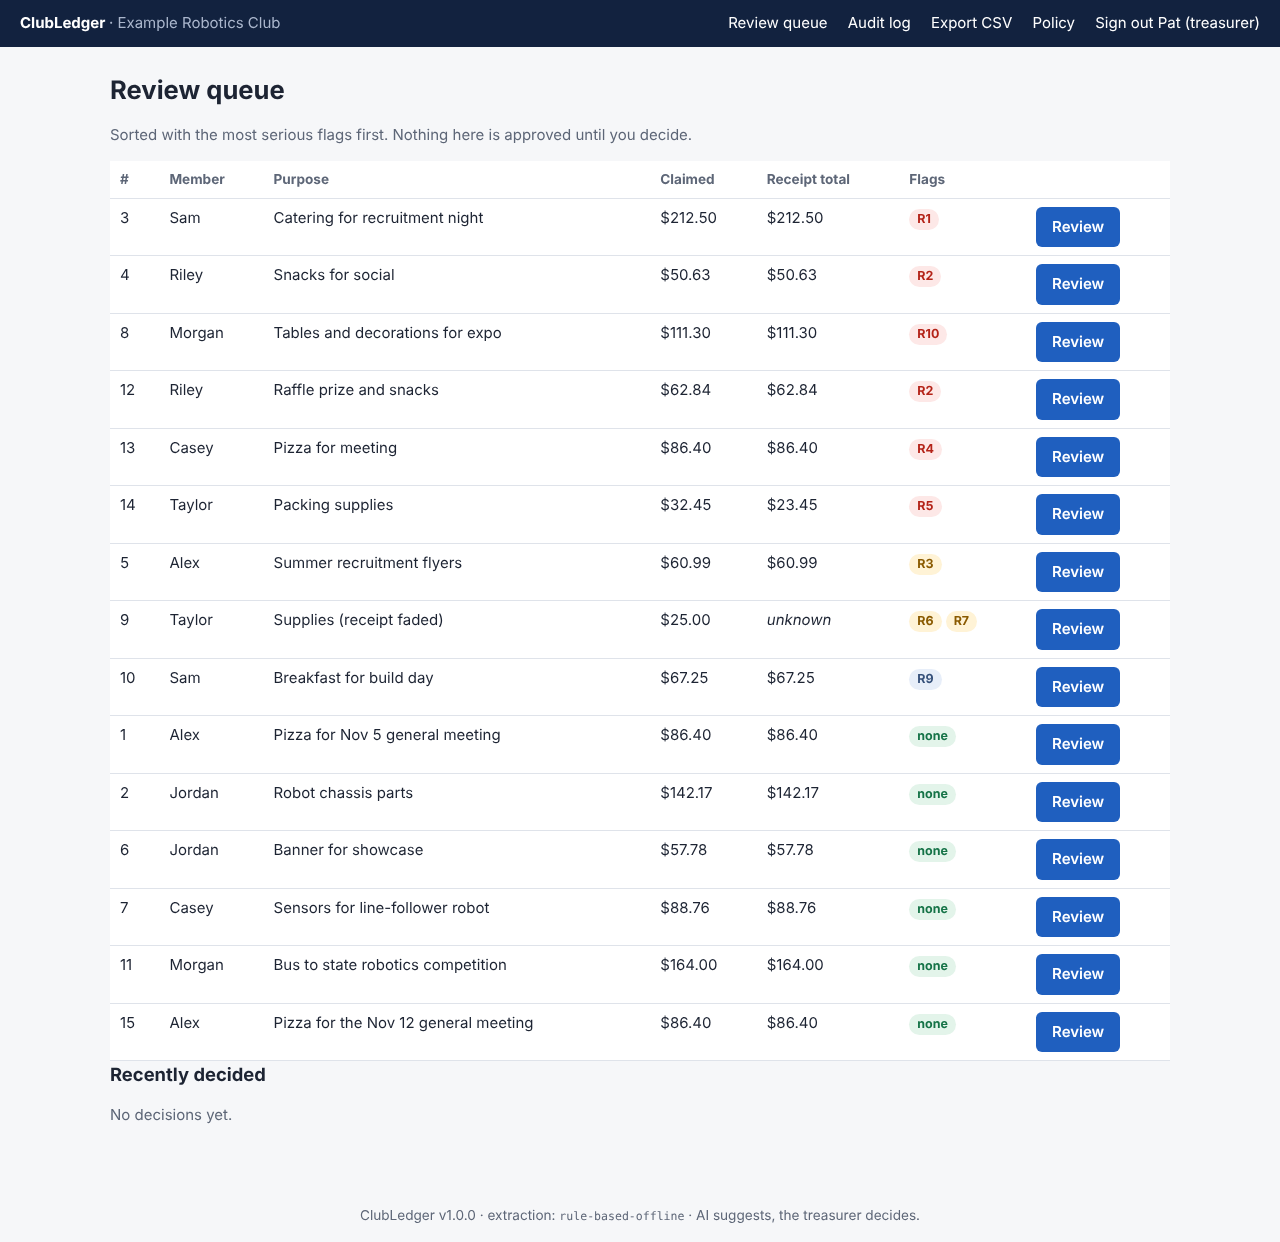
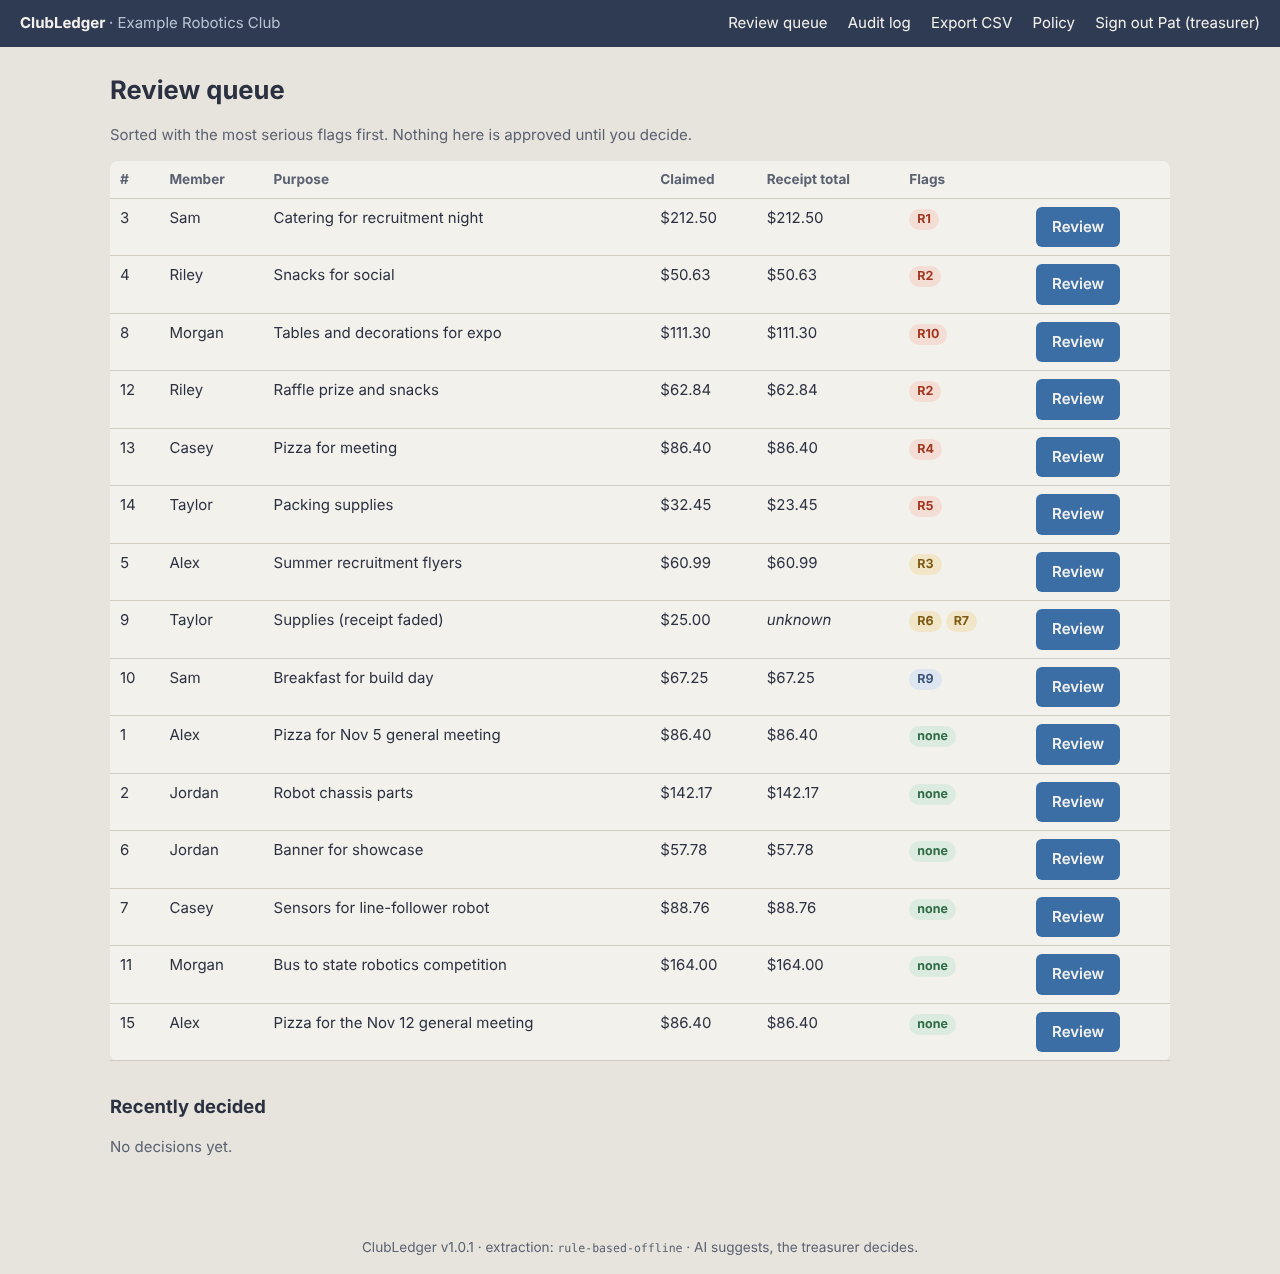
Soften color theme for easier reading

diff --git a/clubledger/static/style.css b/clubledger/static/style.css
@@ -1,7 +1,9 @@
 :root {
-  --bg: #f6f7f9; --card: #fff; --ink: #1d2433; --muted: #5d6677; --line: #dfe3ea;
-  --accent: #1f5fbf; --high: #b42318; --high-bg: #fde8e7; --med: #8a5a00; --med-bg: #fff3d6;
-  --low: #35507a; --low-bg: #e7eef9; --ok: #157347; --ok-bg: #e3f4ea;
+  /* Soft "paper" theme: warm grays instead of bright white, but still a light theme. */
+  --bg: #e7e4dd; --card: #f3f1ec; --field: #faf8f4; --ink: #2b3140; --muted: #5a6170; --line: #d2cdc3;
+  --accent: #3a6ea5; --topbar: #2f3b52;
+  --high: #a1361f; --high-bg: #f3ddd5; --med: #7d5a12; --med-bg: #f2e6c9;
+  --low: #3c5478; --low-bg: #dde5f0; --ok: #2f6b45; --ok-bg: #dcebdf;
 }
 * { box-sizing: border-box; }
 body { margin: 0; font: 15px/1.5 system-ui, -apple-system, "Segoe UI", Roboto, sans-serif; color: var(--ink); background: var(--bg); }
@@ -9,10 +11,10 @@ main { max-width: 1100px; margin: 0 auto; padding: 24px 20px 48px; }
 h1 { font-size: 1.6rem; margin: 0 0 8px; } h2 { font-size: 1.15rem; margin: 0 0 12px; }
 a { color: var(--accent); }
 code { font-size: .85em; }
-.topbar { display: flex; flex-wrap: wrap; gap: 12px; align-items: center; justify-content: space-between; padding: 12px 20px; background: #12223f; }
-.topbar a, .topbar .linklike { color: #fff; text-decoration: none; margin-left: 16px; }
+.topbar { display: flex; flex-wrap: wrap; gap: 12px; align-items: center; justify-content: space-between; padding: 12px 20px; background: var(--topbar); }
+.topbar a, .topbar .linklike { color: #f3f1ec; text-decoration: none; margin-left: 16px; }
 .topbar .brand { margin-left: 0; font-weight: 700; }
-.topbar .muted { color: #aab6cc; font-weight: 400; }
+.topbar .muted { color: #b9c2d3; font-weight: 400; }
 .inline { display: inline; }
 .linklike { background: none; border: 0; padding: 0; font: inherit; cursor: pointer; text-decoration: underline; }
 footer { text-align: center; color: var(--muted); font-size: .85rem; padding: 16px; }
@@ -23,16 +25,16 @@ footer { text-align: center; color: var(--muted); font-size: .85rem; padding: 16
 .muted { color: var(--muted); } .small { font-size: .85rem; }
 label { display: block; margin: 10px 0; font-weight: 600; }
 label.radio { display: inline-block; font-weight: 400; margin-right: 16px; }
-input:not([type=radio]):not([type=file]), textarea, select { display: block; width: 100%; margin-top: 4px; padding: 8px 10px; border: 1px solid var(--line); border-radius: 6px; font: inherit; }
+input:not([type=radio]):not([type=file]), textarea, select { display: block; width: 100%; margin-top: 4px; padding: 8px 10px; border: 1px solid var(--line); border-radius: 6px; font: inherit; background: var(--field); color: var(--ink); }
 fieldset { border: 1px solid var(--line); border-radius: 8px; margin: 12px 0; }
 .row { display: grid; grid-template-columns: 2fr 1fr 1fr 1fr; gap: 10px; }
 @media (max-width: 800px) { .row { grid-template-columns: 1fr; } }
-button, .button { display: inline-block; background: var(--accent); color: #fff; border: 0; border-radius: 6px; padding: 9px 16px; font: inherit; font-weight: 600; cursor: pointer; text-decoration: none; }
-table { width: 100%; border-collapse: collapse; background: var(--card); }
+button, .button { display: inline-block; background: var(--accent); color: #f3f1ec; border: 0; border-radius: 6px; padding: 9px 16px; font: inherit; font-weight: 600; cursor: pointer; text-decoration: none; }
+table { width: 100%; border-collapse: collapse; background: var(--card); border-radius: 8px; }
 th, td { text-align: left; padding: 8px 10px; border-bottom: 1px solid var(--line); vertical-align: top; }
 th { font-size: .85rem; color: var(--muted); }
 table.compact td, table.compact th { padding: 5px 8px; font-size: .9rem; }
-.receipt { white-space: pre-wrap; background: #fbfbfd; border: 1px dashed var(--line); padding: 12px; max-height: 420px; overflow: auto; font-size: .85rem; }
+.receipt { white-space: pre-wrap; background: var(--field); border: 1px dashed var(--line); padding: 12px; max-height: 420px; overflow: auto; font-size: .85rem; }
 .fields { display: grid; grid-template-columns: 110px 1fr; margin: 0 0 12px; }
 .fields dt { color: var(--muted); } .fields dd { margin: 0 0 4px; }
 .flash { padding: 10px 14px; border-radius: 8px; margin: 10px 0; }
@@ -44,7 +46,7 @@ table.compact td, table.compact th { padding: 5px 8px; font-size: .9rem; }
 .pill.low { background: var(--low-bg); color: var(--low); }
 .pill.none { background: var(--ok-bg); color: var(--ok); }
 .flags { list-style: none; padding: 0; margin: 0; }
-.flag { padding: 10px 12px; border-left: 4px solid var(--line); margin-bottom: 8px; background: #fafbfc; }
+.flag { padding: 10px 12px; border-left: 4px solid var(--line); margin-bottom: 8px; background: var(--field); }
 .flag.high { border-color: var(--high); } .flag.medium { border-color: var(--med); } .flag.low { border-color: var(--low); }
 .advice { background: var(--low-bg); padding: 8px 12px; border-radius: 6px; }
 .status { font-size: .8rem; padding: 2px 10px; border-radius: 999px; vertical-align: middle; font-weight: 700; }
@@ -54,3 +56,6 @@ table.compact td, table.compact th { padding: 5px 8px; font-size: .9rem; }
 .status.needs_info { background: var(--low-bg); color: var(--low); }
 .decision { border-left: 4px solid var(--accent); }
 table.compact td:first-child { white-space: nowrap; }
+
+button:hover, .button:hover { filter: brightness(1.08); }
+table + h2 { margin-top: 32px; }

diff --git a/clubledger/__init__.py b/clubledger/__init__.py
@@ -13,7 +13,7 @@ from .config import DEV_SECRET_KEY, DEV_TREASURER_PIN, PROJECT_ROOT, Config, loa
 from .extraction import build_extractor, today
 from .policy import load_policy
 
-__version__ = "1.0.0"
+__version__ = "1.0.1"
 
 log = logging.getLogger("clubledger")
 

diff --git a/CHANGELOG.md b/CHANGELOG.md
@@ -2,6 +2,12 @@
 
 All notable changes are recorded here. The format follows [Keep a Changelog](https://keepachangelog.com/en/1.1.0/), and the project uses [Semantic Versioning](https://semver.org/).
 
+## [1.0.1] — 2026-11-11
+
+### Changed
+- Softer "paper" color theme: warm-gray background and off-white cards instead of bright white, slate header bar. All text keeps at least 4.5:1 contrast. Requested after first hands-on use: the all-white pages were tiring to look at.
+- Refreshed screenshots in `docs/images/`.
+
 ## [1.0.0] — 2026-11
 
 ### Added
